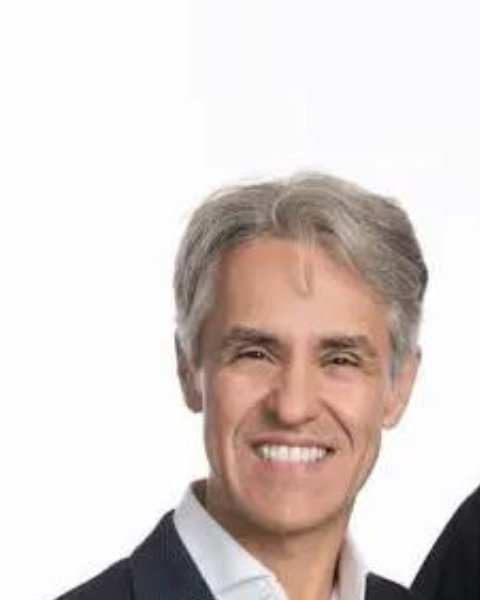
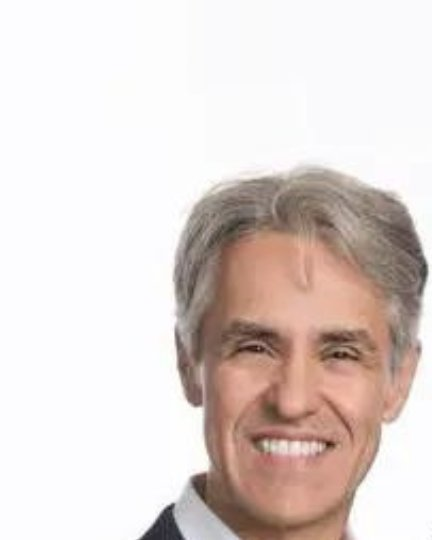
Trim Dr. Carvalho portrait to remove neighboring shoulder
Claude-Session: https://claude.ai/code/session_01M9aRnyNRgx1xA6h1suJLD1

diff --git a/index.html b/index.html
@@ -272,7 +272,7 @@
             <div class="doctor__photo">
               <picture>
                 <source type="image/webp" srcset="assets/images/dr-carvalho.webp">
-                <img src="assets/images/dr-carvalho.jpg" width="480" height="600" alt="Dr. Roberto S. Carvalho" loading="lazy" decoding="async">
+                <img src="assets/images/dr-carvalho.jpg" width="432" height="540" alt="Dr. Roberto S. Carvalho" loading="lazy" decoding="async">
               </picture>
             </div>
             <div class="doctor__body">
